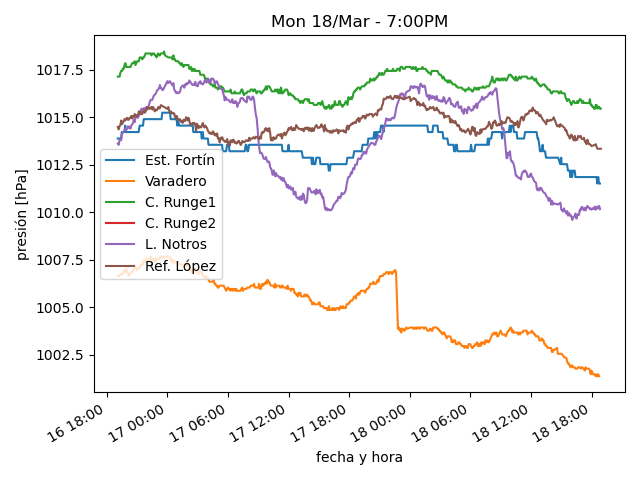
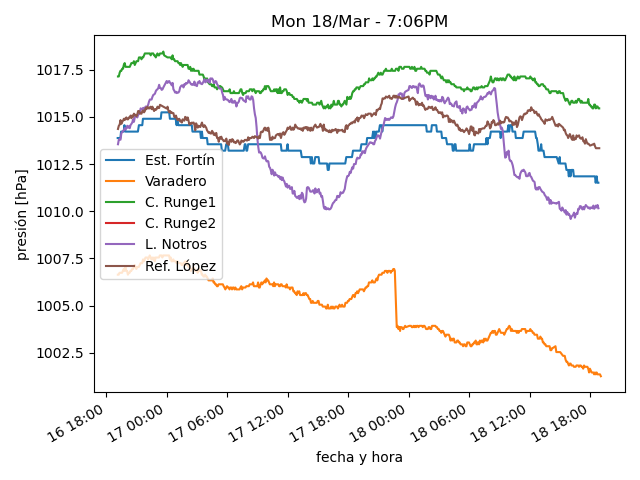
actualiza datos

diff --git a/estaciones/estacion2.html b/estaciones/estacion2.html
@@ -18,32 +18,32 @@
     </tr>
     <tr>
      <td class="stats_data">
-      6:44PM
+      7:04PM
      </td>
     </tr>
     <tr>
      <td class="stats_data">
-      13.7
+      13.5
      </td>
     </tr>
     <tr>
      <td class="stats_data">
-      6.0
+      6.6
      </td>
     </tr>
     <tr>
      <td class="stats_data">
-      59.5
+      62.6
      </td>
     </tr>
     <tr>
      <td class="stats_data">
-      1010.84
+      1010.74
      </td>
     </tr>
     <tr>
      <td class="stats_data">
-      14.3/19.2 NW
+      15.5/19.0 WNW
      </td>
     </tr>
     <tr>
@@ -53,12 +53,12 @@
     </tr>
     <tr>
      <td class="stats_data">
-      1.0
+      0.0
      </td>
     </tr>
     <tr>
      <td class="stats_data">
-      117.9
+      41.1
      </td>
     </tr>
    </tbody>
